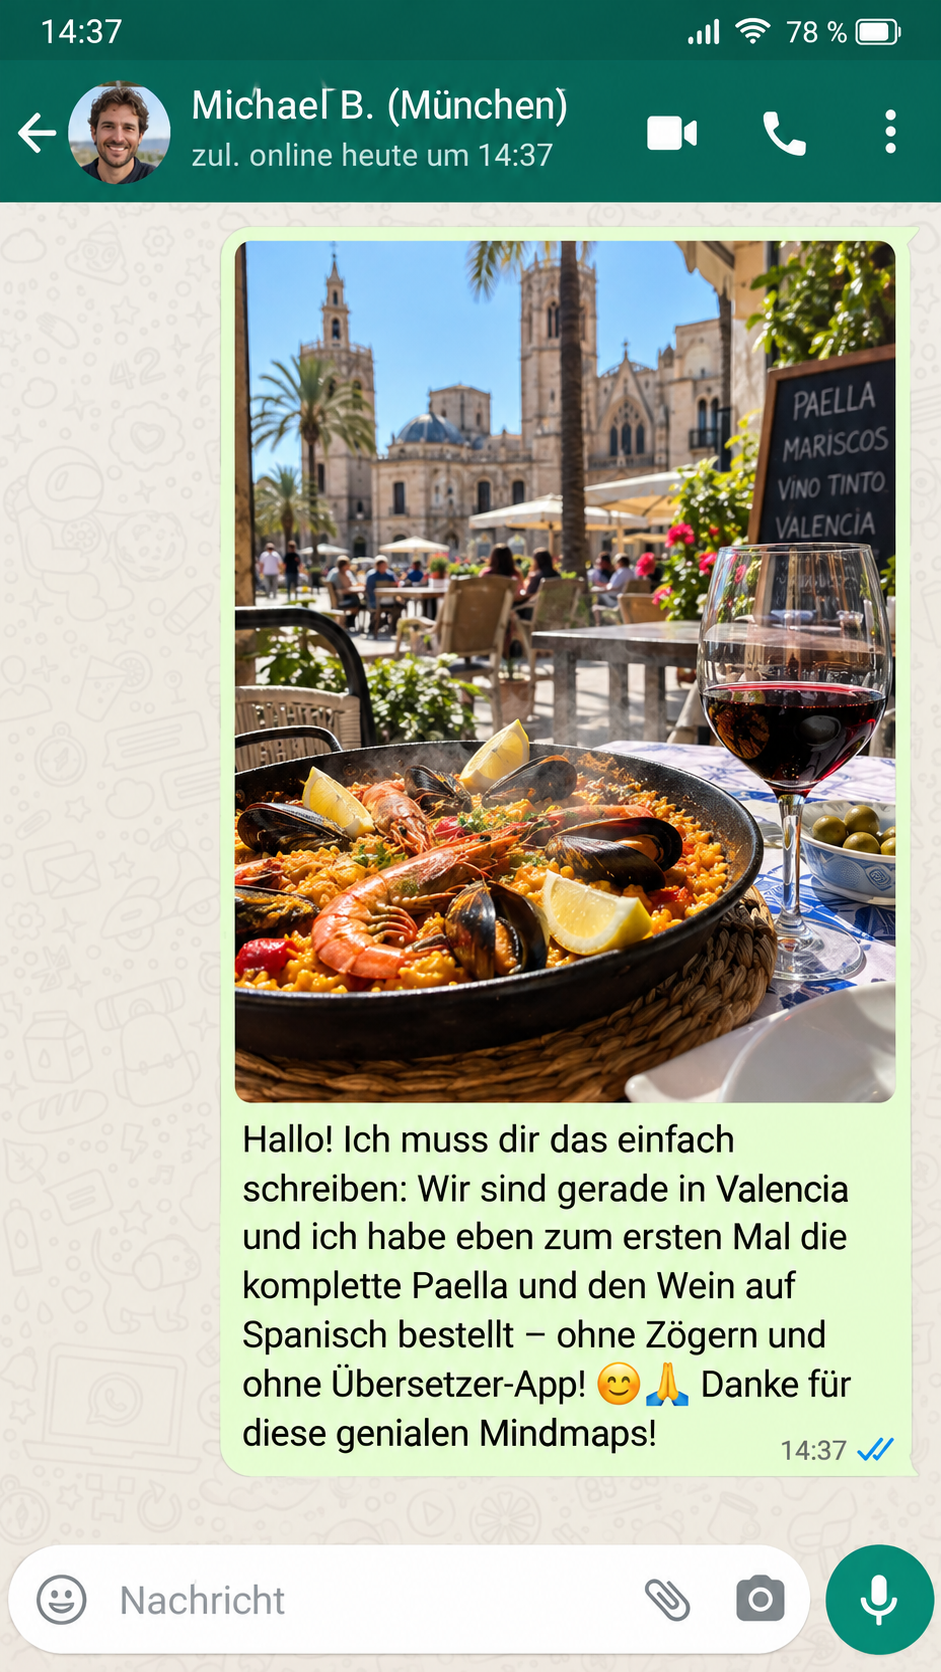
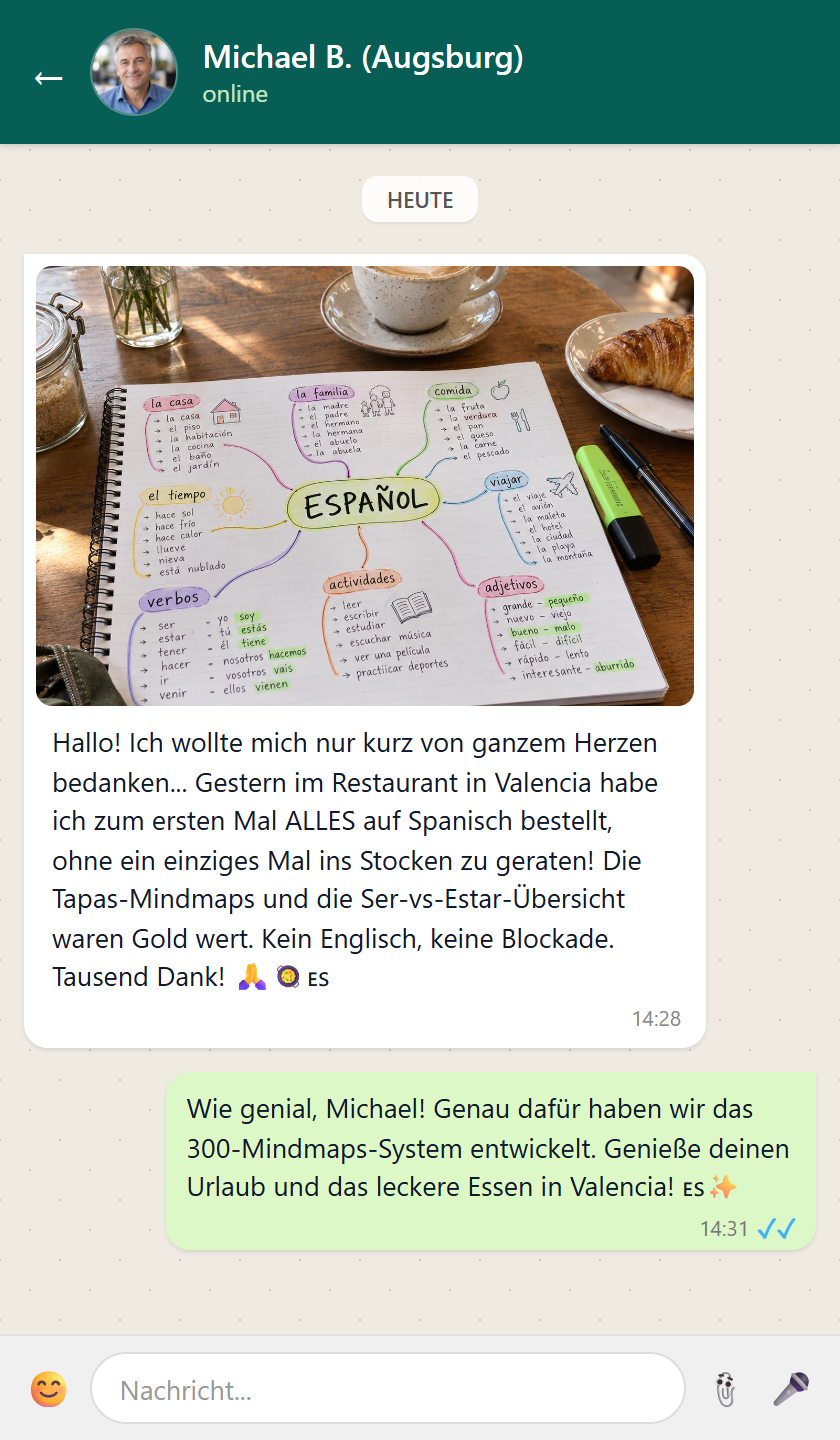
feat(cro): whatsapp entrante canonico, 5 mockups 3d individuales de bonos, conversion webp al 95% y propagacion blindada de utms

diff --git a/index.html b/index.html
@@ -7,7 +7,7 @@
   <meta name="description" content="300 visuelle Mindmaps im DIN A4 Format, um Spanisch in wenigen Wochen fließend zu sprechen – ohne endloses Grammatik-Büffeln. Für Deutschland, Österreich und die Schweiz.">
   
   <!-- Favicon & Brand Icons -->
-  <link rel="icon" href="assets/sello-garantia-7-tage.png" type="image/png">
+  <link rel="icon" href="assets/sello-garantia-7-tage.webp" type="image/png">
   
   <!-- Google Fonts: Poppins & Inter -->
   <link rel="preconnect" href="https://fonts.googleapis.com">
@@ -692,6 +692,32 @@
       position: relative;
       box-shadow: 0 4px 12px rgba(124, 58, 237, 0.05);
       text-align: left;
+      display: flex;
+      flex-direction: column;
+    }
+
+    .bonus-mockup {
+      width: 100%;
+      height: 160px;
+      margin-bottom: 16px;
+      display: flex;
+      align-items: center;
+      justify-content: center;
+      background: #FAF8F5;
+      border-radius: var(--radius-sm);
+      overflow: hidden;
+    }
+
+    .bonus-mockup img {
+      max-width: 100%;
+      max-height: 100%;
+      object-fit: contain;
+      filter: drop-shadow(0 4px 10px rgba(0,0,0,0.08));
+      transition: transform 0.3s ease;
+    }
+
+    .bonus-card:hover .bonus-mockup img {
+      transform: scale(1.05);
     }
 
     .bonus-pill {
@@ -1343,7 +1369,7 @@
 
       <!-- Hero Mockup 3D Abundante -->
       <div class="hero-mockup-wrapper">
-        <img src="assets/hero-mockup-3d.png" alt="Spanisch Visuell PRO 300 Mindmaps Komplettsystem Mockup" width="1536" height="1024" loading="eager">
+        <img src="assets/hero-mockup-3d.webp" alt="Spanisch Visuell PRO 300 Mindmaps Komplettsystem Mockup" fetchpriority="high" loading="eager" width="1536" height="1024" loading="eager">
       </div>
 
       <!-- Selector interactivo de muestra -->
@@ -1399,7 +1425,7 @@
       <div class="proof-gallery">
         <!-- Foto 1 -->
         <div class="proof-card">
-          <img src="assets/avatar-pov-1.png" alt="Spanisch Mindmaps auf dem Schreibtisch in München" class="proof-img" loading="lazy">
+          <img src="assets/avatar-pov-1.webp" alt="Spanisch Mindmaps auf dem Schreibtisch in München" class="proof-img" loading="lazy">
           <div class="proof-info">
             <div class="proof-name">Hans-Jürgen B.</div>
             <div class="proof-city">München, Deutschland</div>
@@ -1409,7 +1435,7 @@
 
         <!-- Foto 2 -->
         <div class="proof-card">
-          <img src="assets/avatar-pov-2.png" alt="Lernen mit dem iPad in Wien" class="proof-img" loading="lazy">
+          <img src="assets/avatar-pov-2.webp" alt="Lernen mit dem iPad in Wien" class="proof-img" loading="lazy">
           <div class="proof-info">
             <div class="proof-name">Julia S.</div>
             <div class="proof-city">Wien, Österreich</div>
@@ -1419,7 +1445,7 @@
 
         <!-- Foto 3 -->
         <div class="proof-card">
-          <img src="assets/avatar-selfie-1.png" alt="Kunde zufrieden auf Mallorca" class="proof-img" loading="lazy">
+          <img src="assets/avatar-selfie-1.webp" alt="Kunde zufrieden auf Mallorca" class="proof-img" loading="lazy">
           <div class="proof-info">
             <div class="proof-name">Stefan K.</div>
             <div class="proof-city">Salzburg (aktuell Mallorca)</div>
@@ -1429,7 +1455,7 @@
 
         <!-- Foto 4 -->
         <div class="proof-card">
-          <img src="assets/avatar-context-1.png" alt="Lernen unterwegs im Zug in Zürich" class="proof-img" loading="lazy">
+          <img src="assets/avatar-context-1.webp" alt="Lernen unterwegs im Zug in Zürich" class="proof-img" loading="lazy">
           <div class="proof-info">
             <div class="proof-name">Claudia W.</div>
             <div class="proof-city">Zürich, Schweiz</div>
@@ -1458,7 +1484,7 @@
 
       <div class="viewer-display">
         <div class="viewer-image-container" onclick="openZoomModal()">
-          <img id="viewer-img" src="assets/lamina-1-ser-estar.png" alt="Spanisch Mindmap Musterblatt">
+          <img id="viewer-img" src="assets/lamina-1-ser-estar.webp" alt="Spanisch Mindmap Musterblatt">
           <div class="zoom-hint">🔍 Klicken für Vollbild-Zoom</div>
         </div>
       </div>
@@ -1696,12 +1722,15 @@
       <p class="section-subtitle">Wenn Sie heute bestellen, schalten wir diese fünf praxiserprobten Zusatzanleitungen ohne jeden Aufpreis für Sie frei.</p>
 
       <div class="bonus-banner-mockup">
-        <img src="assets/bonos-bundle.png" alt="5 Exklusive Spanisch Boni im Bundle" width="1200" height="700" loading="lazy">
+        <img src="assets/bonos-bundle.webp" alt="5 Exklusive Spanisch Boni im Bundle" width="1200" height="700" loading="lazy">
       </div>
 
       <div class="bonuses-list">
         <!-- Bonus 1 -->
         <div class="bonus-card">
+          <div class="bonus-mockup">
+            <img src="assets/bono-1-notfall-spickzettel.webp" alt="Spanisch-Notfall-Spickzettel für den Urlaub" width="300" height="300" loading="lazy">
+          </div>
           <span class="bonus-pill">GRATIS-BONUS #1</span>
           <span class="bonus-val">19,00 €</span>
           <h4>Spanisch-Notfall-Spickzettel für den Urlaub</h4>
@@ -1710,6 +1739,9 @@
 
         <!-- Bonus 2 -->
         <div class="bonus-card">
+          <div class="bonus-mockup">
+            <img src="assets/bono-2-falsche-freunde.webp" alt="Der Falsche Freunde Guide" width="300" height="300" loading="lazy">
+          </div>
           <span class="bonus-pill">GRATIS-BONUS #2</span>
           <span class="bonus-val">19,00 €</span>
           <h4>Der „Falsche Freunde“ Guide</h4>
@@ -1718,6 +1750,9 @@
 
         <!-- Bonus 3 -->
         <div class="bonus-card">
+          <div class="bonus-mockup">
+            <img src="assets/bono-3-aussprache-masterclass.webp" alt="Aussprache-Masterclass Illustriert" width="300" height="300" loading="lazy">
+          </div>
           <span class="bonus-pill">GRATIS-BONUS #3</span>
           <span class="bonus-val">25,00 €</span>
           <h4>Aussprache-Masterclass (Illustriert)</h4>
@@ -1726,6 +1761,9 @@
 
         <!-- Bonus 4 -->
         <div class="bonus-card">
+          <div class="bonus-mockup">
+            <img src="assets/bono-4-restaurant-tapas.webp" alt="Restaurant- und Tapas-Dolmetscher" width="300" height="300" loading="lazy">
+          </div>
           <span class="bonus-pill">GRATIS-BONUS #4</span>
           <span class="bonus-val">19,00 €</span>
           <h4>Restaurant- & Tapas-Dolmetscher</h4>
@@ -1734,6 +1772,9 @@
 
         <!-- Bonus 5 -->
         <div class="bonus-card">
+          <div class="bonus-mockup">
+            <img src="assets/bono-5-lebenslanger-zugang.webp" alt="Lebenslanger Zugriff und Kostenlose Updates" width="300" height="300" loading="lazy">
+          </div>
           <span class="bonus-pill">GRATIS-BONUS #5</span>
           <span class="bonus-val">15,00 €</span>
           <h4>Lebenslanger Zugriff & Kostenlose Updates</h4>
@@ -1755,7 +1796,7 @@
       <div class="whatsapp-grid">
         <!-- Chat Michael -->
         <div class="whatsapp-card">
-          <img src="assets/whatsapp-michael.png" alt="WhatsApp Erfahrung Michael B. aus Valencia" loading="lazy">
+          <img src="assets/whatsapp-michael.webp" alt="WhatsApp Erfahrung Michael B. aus Valencia" loading="lazy">
           <div class="whatsapp-caption">
             <p><strong>Michael B. aus Augsburg</strong> schickte uns dieses Foto direkt aus seinem Urlaub in Valencia. Nach nur 4 Wochen Vorbereitung mit den Mindmaps bestellte er problemlos auf Spanisch.</p>
           </div>
@@ -1763,7 +1804,7 @@
 
         <!-- Chat Julia -->
         <div class="whatsapp-card">
-          <img src="assets/whatsapp-julia.png" alt="WhatsApp Erfahrung Julia S. aus Wien" loading="lazy">
+          <img src="assets/whatsapp-julia.webp" alt="WhatsApp Erfahrung Julia S. aus Wien" loading="lazy">
           <div class="whatsapp-caption">
             <p><strong>Julia S. aus Wien</strong> löste ihr zweijähriges Frust-Thema mit dem Subjuntivo in nur 10 Minuten durch die visuelle WEIRDO-Mindmap auf ihrem iPad.</p>
           </div>
@@ -1785,7 +1826,7 @@
         <!-- Review 1 -->
         <div class="amazon-review">
           <div class="review-header">
-            <img src="assets/avatar-review-1.png" alt="Michael B." class="review-avatar">
+            <img src="assets/avatar-review-1.webp" alt="Michael B." class="review-avatar">
             <div>
               <div class="review-author">Michael B.</div>
               <div class="review-verified">✓ Verifizierter Kauf (Augsburg)</div>
@@ -1801,7 +1842,7 @@
         <!-- Review 2 -->
         <div class="amazon-review">
           <div class="review-header">
-            <img src="assets/avatar-review-2.png" alt="Julia S." class="review-avatar">
+            <img src="assets/avatar-review-2.webp" alt="Julia S." class="review-avatar">
             <div>
               <div class="review-author">Julia S.</div>
               <div class="review-verified">✓ Verifizierter Kauf (Wien)</div>
@@ -1817,7 +1858,7 @@
         <!-- Review 3 -->
         <div class="amazon-review">
           <div class="review-header">
-            <img src="assets/avatar-review-3.png" alt="Stefan K." class="review-avatar">
+            <img src="assets/avatar-review-3.webp" alt="Stefan K." class="review-avatar">
             <div>
               <div class="review-author">Stefan K.</div>
               <div class="review-verified">✓ Verifizierter Kauf (Salzburg)</div>
@@ -1833,7 +1874,7 @@
         <!-- Review 4 -->
         <div class="amazon-review">
           <div class="review-header">
-            <img src="assets/avatar-review-4.png" alt="Claudia W." class="review-avatar">
+            <img src="assets/avatar-review-4.webp" alt="Claudia W." class="review-avatar">
             <div>
               <div class="review-author">Claudia W.</div>
               <div class="review-verified">✓ Verifizierter Kauf (Zürich)</div>
@@ -1941,7 +1982,7 @@
        ========================================================================== -->
   <section class="container">
     <div class="guarantee-box">
-      <img src="assets/sello-garantia-7-tage.png" alt="7 Tage Geld zurück Garantie Siegel 3D" class="guarantee-seal-img" loading="lazy">
+      <img src="assets/sello-garantia-7-tage.webp" alt="7 Tage Geld zurück Garantie Siegel 3D" class="guarantee-seal-img" loading="lazy">
       <div class="guarantee-text">
         <h3>Unsere 100% risikofreie 7-Tage-Garantie</h3>
         <p style="margin-bottom: 12px;">
@@ -1970,7 +2011,7 @@
       <div class="pricing-content">
         <!-- Mockup Bundle Oferta -->
         <div class="pricing-mockup">
-          <img src="assets/mockup-oferta-1990.png" alt="Spanisch Visuell PRO Komplettpaket" loading="lazy">
+          <img src="assets/mockup-oferta-1990.webp" alt="Spanisch Visuell PRO Komplettpaket" loading="lazy">
         </div>
 
         <!-- Wertaufstellung -->
@@ -2018,7 +2059,7 @@
       </p>
 
       <div class="bump-bundle-img">
-        <img src="assets/mockup-combo-bumps.png" alt="Mega Spanisch Vollpaket 4-in-1 Combo" loading="lazy">
+        <img src="assets/mockup-combo-bumps.webp" alt="Mega Spanisch Vollpaket 4-in-1 Combo" loading="lazy">
       </div>
 
       <div style="display: flex; justify-content: center; gap: 20px; flex-wrap: wrap; margin-top: 20px; font-size: 0.9rem; font-weight: 600;">
@@ -2197,7 +2238,7 @@
 
   <!-- Modal de Zoom para Láminas Interiores -->
   <div id="zoom-modal" class="modal-overlay" onclick="closeZoomModal()">
-    <img id="modal-img" class="modal-content" src="assets/lamina-1-ser-estar.png" alt="Vergrößerte Ansicht">
+    <img id="modal-img" class="modal-content" src="assets/lamina-1-ser-estar.webp" alt="Vergrößerte Ansicht">
   </div>
 
   <!-- ==========================================================================
@@ -2206,10 +2247,10 @@
   <script>
     // 1. Selector de Láminas Interiores
     const viewerImages = [
-      'assets/lamina-1-ser-estar.png',
-      'assets/lamina-2-essen-restaurant.png',
-      'assets/lamina-3-urlaub-reisen.png',
-      'assets/lamina-4-grammatik-zeitformen.png'
+      'assets/lamina-1-ser-estar.webp',
+      'assets/lamina-2-essen-restaurant.webp',
+      'assets/lamina-3-urlaub-reisen.webp',
+      'assets/lamina-4-grammatik-zeitformen.webp'
     ];
 
     function switchViewer(index, btn) {
@@ -2297,5 +2338,49 @@
       setInterval(showNextToast, 12000);
     }, 4000);
   </script>
+
+  <!-- ==========================================================================
+       7. PRESERVACIÓN E INYECCIÓN AUTOMÁTICA DE UTMS HACIA CHECKOUTS
+       ========================================================================== -->
+  <script>
+    (function() {
+      function preserveAndInjectUTMs() {
+        const urlParams = new URLSearchParams(window.location.search);
+        if (!urlParams.toString()) return;
+
+        // Lista de parámetros clave a propagar sin perder ninguno
+        const trackingKeys = ['utm_source', 'utm_medium', 'utm_campaign', 'utm_content', 'utm_term', 'xcod', 'sck', 'src'];
+        
+        // Seleccionar todos los enlaces de compra y botones hacia Hotmart o checkout
+        const links = document.querySelectorAll('a[href*="hotmart.com"], a.btn-cta, a.sticky-btn');
+
+        links.forEach(link => {
+          let href = link.getAttribute('href');
+          if (!href || href.startsWith('#')) return;
+
+          try {
+            const targetUrl = new URL(href, window.location.origin);
+            
+            // Pasar todos los parámetros de la URL actual al link de destino
+            urlParams.forEach((val, key) => {
+              targetUrl.searchParams.set(key, val);
+            });
+
+            link.setAttribute('href', targetUrl.toString());
+          } catch (e) {
+            const separator = href.includes('?') ? '&' : '?';
+            link.setAttribute('href', href + separator + urlParams.toString());
+          }
+        });
+      }
+
+      if (document.readyState === 'loading') {
+        document.addEventListener('DOMContentLoaded', preserveAndInjectUTMs);
+      } else {
+        preserveAndInjectUTMs();
+      }
+    })();
+  </script>
 </body>
+
 </html>
